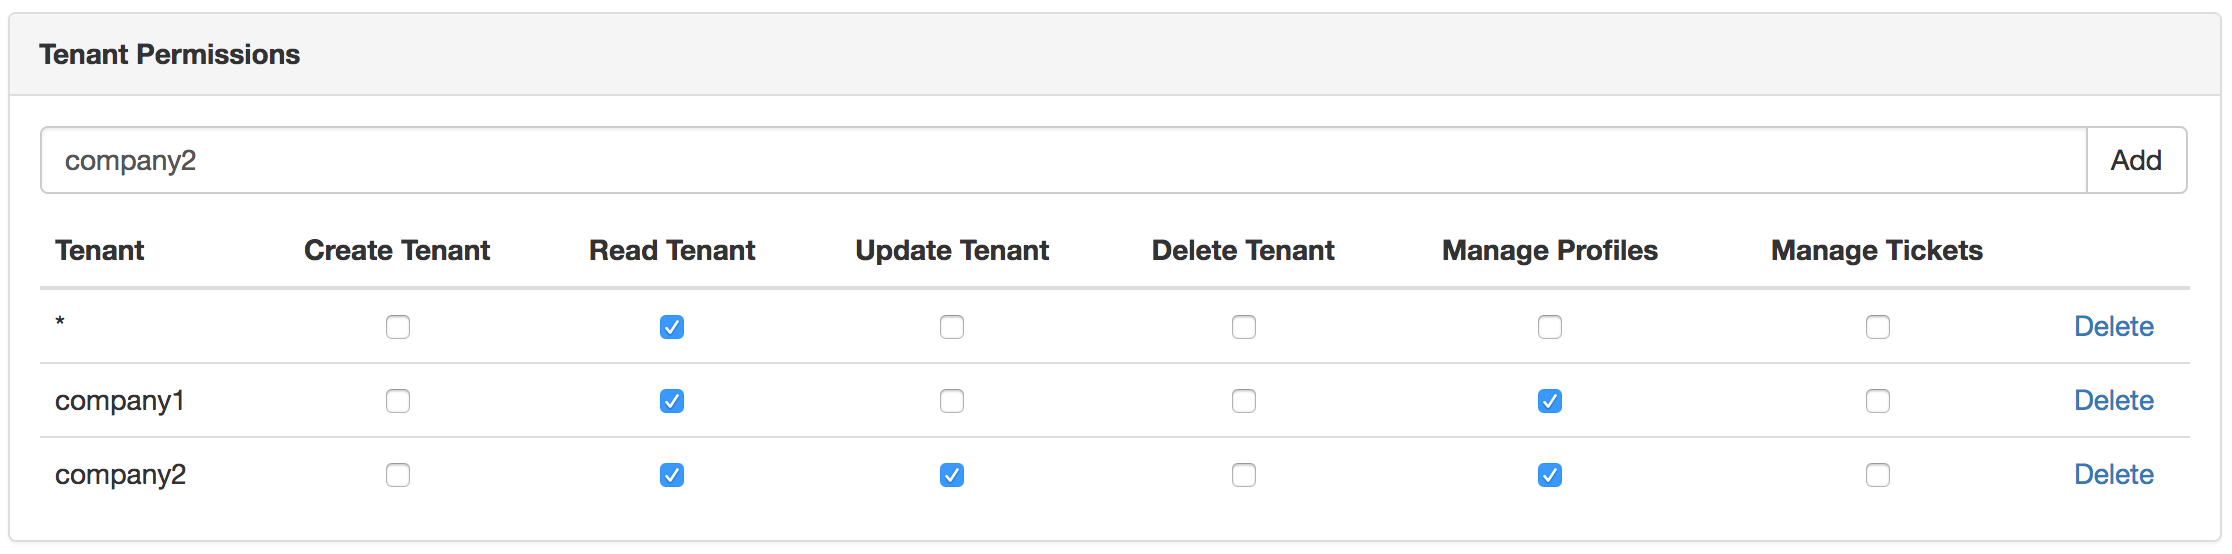
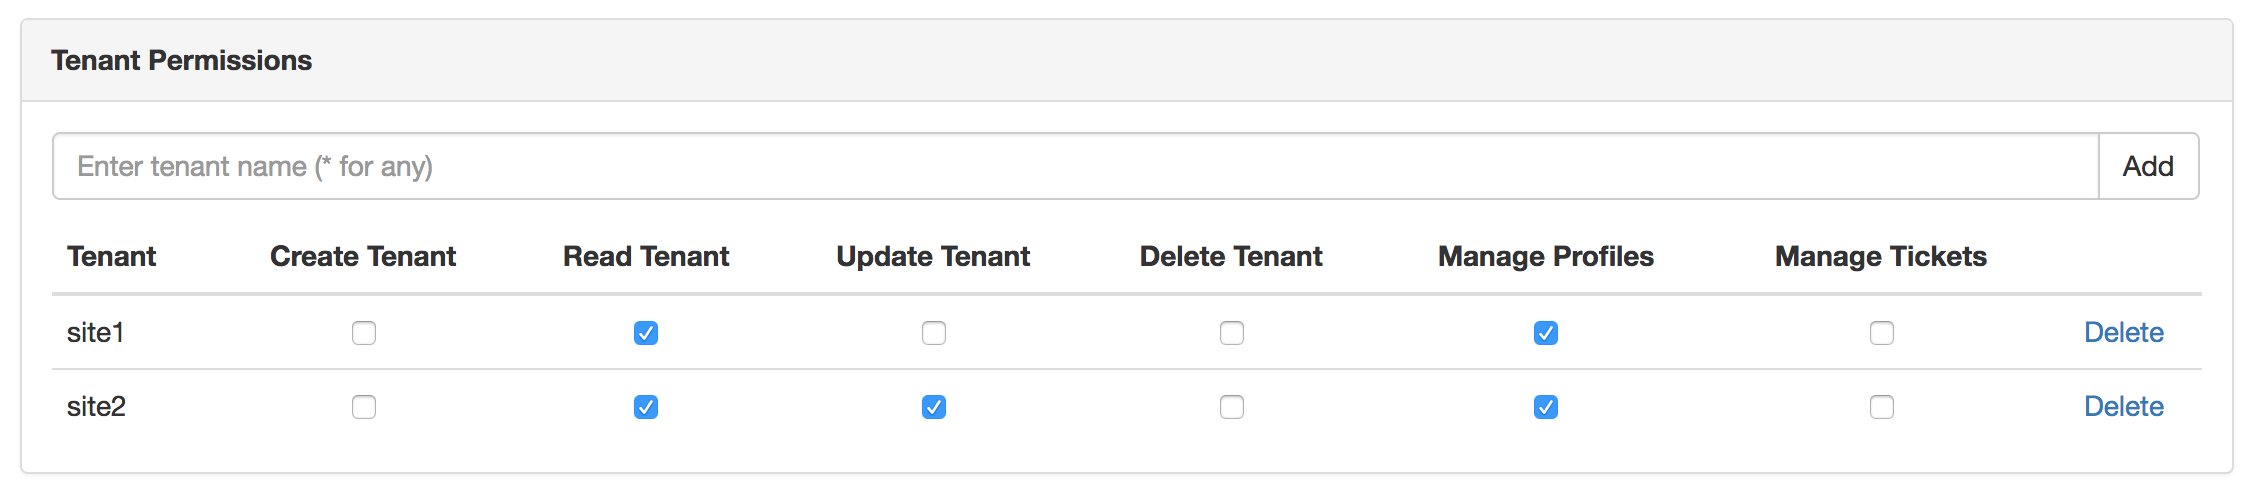
Updated Profile Admin Console docs, fixed some typos

diff --git a/source/system-administrators/profile-admin/guides/profiles.rst b/source/system-administrators/profile-admin/guides/profiles.rst
@@ -1,21 +1,102 @@
+.. .. include:: /includes/unicode-checkmark.rst
+
 .. _profile-admin-profiles:
 
 ===================
 Profiles Management
 ===================
 
-----
-List
-----
+Profiles hold data for each user of the site or application, each profile needs to be related to
+a tenant because it will inherit the attribute definitions and available roles.
 
-----
-View
-----
+-------------
+List & Search
+-------------
 
-------
-Create
-------
+You can list all existing profiles for a given tenant by clicking the ``List Profiles`` link in the
+left sidebar.
 
-------
-Update
-------
+.. figure:: /_static/images/profile-admin/profiles-list.png
+  :align: center
+
+Once the page is loaded you can select the desired tenant by using the dropdown below
+the page title.
+
+You can also search for a specific username by using the filter next to the tenant dropdown. The
+filter can be removed using the ``Reset`` button.
+
+From this page you can also delete profiles.
+
+------------------
+Create New Profile
+------------------
+
+To create a new profile you can click the ``New Profile`` link in the left sidebar.
+
+.. figure:: /_static/images/profile-admin/profiles-new.png
+  :align: center
+
+^^^^^^
+Fields
+^^^^^^
+
++-----------------------+-------------+---------+------------------------------------------------+
+| Field                 | Required    | Type    |  Description                                   |
++=======================+=============+=========+================================================+
+| Username              | |checkmark| | String  || Unique username for the new profile           |
++-----------------------+-------------+---------+------------------------------------------------+
+| Tenant                | |checkmark| | String  || Tenant to which the new profile will belong   |
++-----------------------+-------------+---------+------------------------------------------------+
+| Email                 | |checkmark| | String  || Email for the new profile                     |
++-----------------------+-------------+---------+------------------------------------------------+
+| Password              | |checkmark| | String  || Password for the new profile                  |
++-----------------------+-------------+---------+------------------------------------------------+
+| Enabled               |             | Boolean || If set to `false` the authentication for the  |
+|                       |             |         || new profile will always fail                  |
++-----------------------+-------------+---------+------------------------------------------------+
+| Roles                 |             | List    || List of roles that will be assigned to the    |
+|                       |             |         || new profile                                   |
++-----------------------+-------------+---------+------------------------------------------------+
+
+^^^^^^^^^^^^^
+Custom Fields
+^^^^^^^^^^^^^
+
+Crafter Profile Admin Console will display an additional field for each one of the attribute
+definition in the selected tenant. The input will change depending on the attribute type.
+
+.. NOTE::
+  Custom Fields are always optional, if no default value is set in the tenant they will remain empty
+  
+  Some attribute types such as ``Complex`` can only be changed using the API, those fields will
+  appear to be disabled in the Admin Console.
+
+--------------
+Update Profile
+--------------
+
+From the list page you can click the ID of a profile to open the update page:
+
+.. figure:: /_static/images/profile-admin/profiles-update.png
+  :align: center
+
+When updating an existing profile the username and tenant are not editable.
+
+^^^^^^^^^^^^^^^^^
+Additional Fields
+^^^^^^^^^^^^^^^^^
+
+These fields are not shown in the new profile form because the values are always assigned
+automatically by Crafter Profile.
+
++------------------+---------+-------------------------------------------------------------------+
+| Field            | Type    |  Description                                                      |
++==================+=========+===================================================================+
+| Verified         | Boolean || Indicates if the verification process has been completed by the  |
+|                  |         || user                                                             |
++------------------+---------+-------------------------------------------------------------------+
+| Created On       | Date    || Date when the profile was created                                |
++------------------+---------+-------------------------------------------------------------------+
+| Last Modified On | Date    || Date when the profile was last updated                           |
++------------------+---------+-------------------------------------------------------------------+
+

diff --git a/source/system-administrators/profile-admin/index.rst b/source/system-administrators/profile-admin/index.rst
@@ -6,9 +6,9 @@
 Crafter Profile Admin Console
 =============================
 
-Crafter Profile Admin Console consists of a single WAR file, which only dependecy is access to 
+Crafter Profile Admin Console consists of a single WAR file, which only dependency is access to 
 Crafter Profile. This web application provides a simple way to manage all data related to tenants
-and profiles without the need to call the :ref:`crafter-profile-api` direclty.
+and profiles without the need to call the :ref:`crafter-profile-api` directly.
 
 ------------
 Installation
@@ -66,33 +66,34 @@ Properties
 |                                       || can be changed in the first login                     |
 +---------------------------------------+--------------------------------------------------------+
 
-More details on the ``verificationUrl`` can be found here: :ref:`crafter-profile-api-profile-create`
+^^^^^^^^^^^^^^^^^^^^
+Profile Verification
+^^^^^^^^^^^^^^^^^^^^
+
+If your site or application will be open to general public it is a good idea to avoid spam by
+enabling the profile verification feature. When a tenant has this feature enabled and you
+include the ``crafter.profile.management.profile.verificationUrl`` property in the configuration
+all new users will receive a verification email and the profile will be enable only when the
+process is completed.
+
+.. figure:: /_static/images/profile-admin/verification-mail.png
+  :align: center
+  
+  Example verification mail using ``http://www.test.com`` as the `verificationUrl`
+
+.. NOTE::
+  You can change the email sender, subject and body template in the Crafter Profile configuration.
 
 -----------
 User Guides
 -----------
-
-Once the WAR file has been deployed, you can access the application in the following URL: 
-``HOST:PORT/crafter-profile-admin-console``
-
-.. figure:: /_static/images/profile-admin/login.png
-  :align: center
-  :width: 50%
-
-  Crafter Profile Admin Console login dialog.
-
-By default there is only one user created:
-
-.. code-block:: none
-
-  Username: admin
-  Password: admin
 
 In the next sections you can find detailed steps for all available operations in the application.
 
 .. toctree::
   :maxdepth: 2
   
+  guides/login.rst
   guides/access_tokens.rst
   guides/tenants.rst
   guides/profiles.rst

diff --git a/source/system-administrators/profile-admin/guides/access_tokens.rst b/source/system-administrators/profile-admin/guides/access_tokens.rst
@@ -33,7 +33,7 @@ From this page you can view the general information about the tokens and delete 
 
 .. WARNING::
   When you delete an Access Token all applications that are configured to use it will be unable to
-  access the API inmediately.
+  access the API immediately.
 
 ------------
 View Details
@@ -45,7 +45,7 @@ From the List Access Tokens page you can click the ID of an existing record to d
   :align: center
 
 .. NOTE::
-  Access Tokens are inmutable, if you need to change the permissions for an existing token you need
+  Access Tokens are immutable, if you need to change the permissions for an existing token you need
   to delete it and create a new one using the same value for the ID.
 
 --------------------------
@@ -88,7 +88,7 @@ Example Tenant Permissions
 
 An application using an Access Token with these permissions will be able to:
 
-  - Query data from any tenant
-  - Manage profiles for tenants ``company1`` and ``company2``
-  - Make changes in ``company2`` tenant
+  - Query data from both tenants ``site1`` and ``site2``
+  - Update only tenant ``site2``
+  - Query, create, update and delete profiles for both ``site1`` and ``site2``
 

diff --git a/source/system-administrators/profile-admin/guides/tenants.rst b/source/system-administrators/profile-admin/guides/tenants.rst
@@ -22,7 +22,7 @@ To view all existing tenants you can click the ``List Tenants`` link in the left
 .. figure:: /_static/images/profile-admin/tenants-list.png
   :align: center
 
-In this page you can se the names of the tenants and delete them if needed.
+In this page you can see the names of the tenants and delete them if needed.
 
 .. WARNING::
   When you delete a tenant, all profiles created under it will be also deleted and there is no
@@ -74,7 +74,7 @@ Crafter Profile Admin Console uses the following roles:
 - PROFILE_ADMIN
 
 If you are going to have multiple users using the Admin Console you can change the roles to
-make sure only the appropiate users are able to change sensitive content.
+make sure only the appropriate users are able to change sensitive content.
 
 ^^^^^^^^^^^^^^^^^^^^^
 Attribute Definitions

diff --git a/source/developers/projects/profile/api/profile/verify.rst b/source/developers/projects/profile/api/profile/verify.rst
@@ -31,7 +31,7 @@ Parameters
 ||                     ||        ||              || making the call                          |
 +----------------------+---------+---------------+-------------------------------------------+
 || verificationTokenId || String || |checkmark|  || The verification token ID                |
-+----------------------+-------------+---------------+---------------------------------------+
++----------------------+---------+---------------+-------------------------------------------+
 || attributesToReturn  || String ||              || The name of the attributes to return     |
 ||                     ||        ||              || (don't specify to return all)            |
 +----------------------+---------+---------------+-------------------------------------------+

diff --git a/source/system-administrators/profile-admin/guides/login.rst b/source/system-administrators/profile-admin/guides/login.rst
@@ -1,0 +1,19 @@
+==========================
+Accesing the Admin Console
+==========================
+
+Once the WAR file has been deployed, you can access the application in the following URL: 
+``HOST:PORT/crafter-profile-admin-console``
+
+.. figure:: /_static/images/profile-admin/login.png
+  :align: center
+  :width: 50%
+
+  Crafter Profile Admin Console login dialog.
+
+By default there is only one user created:
+
+.. code-block:: none
+
+  Username: admin
+  Password: admin

diff --git a/source/developers/projects/profile/api/authentication/persistent_login/refresh_token.rst b/source/developers/projects/profile/api/authentication/persistent_login/refresh_token.rst
@@ -2,9 +2,9 @@
 
 .. _crafter-profile-api-authentication-persistent_login-refresh_token:
 
-=========================
-Resfresh Persistent Login
-=========================
+========================
+Refresh Persistent Login
+========================
 
 Refreshes the token of the specified persistent login.
 
